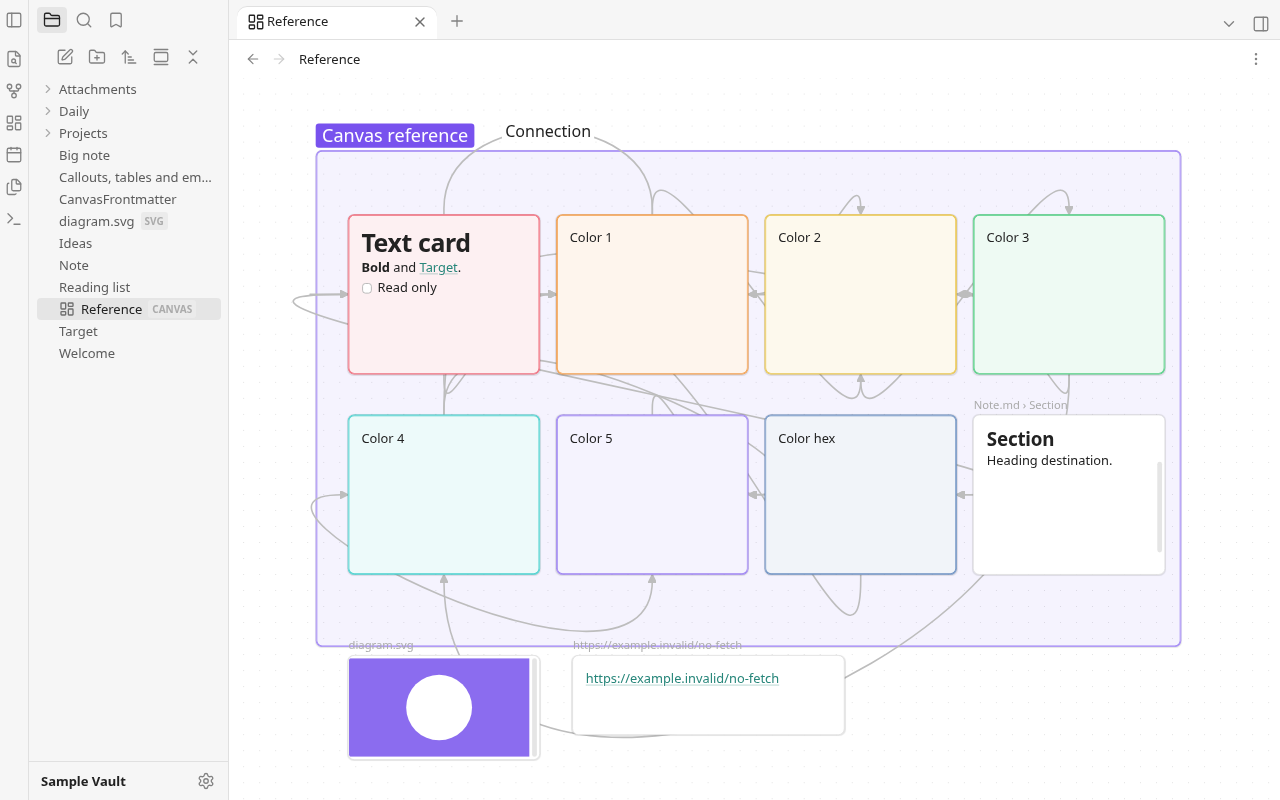
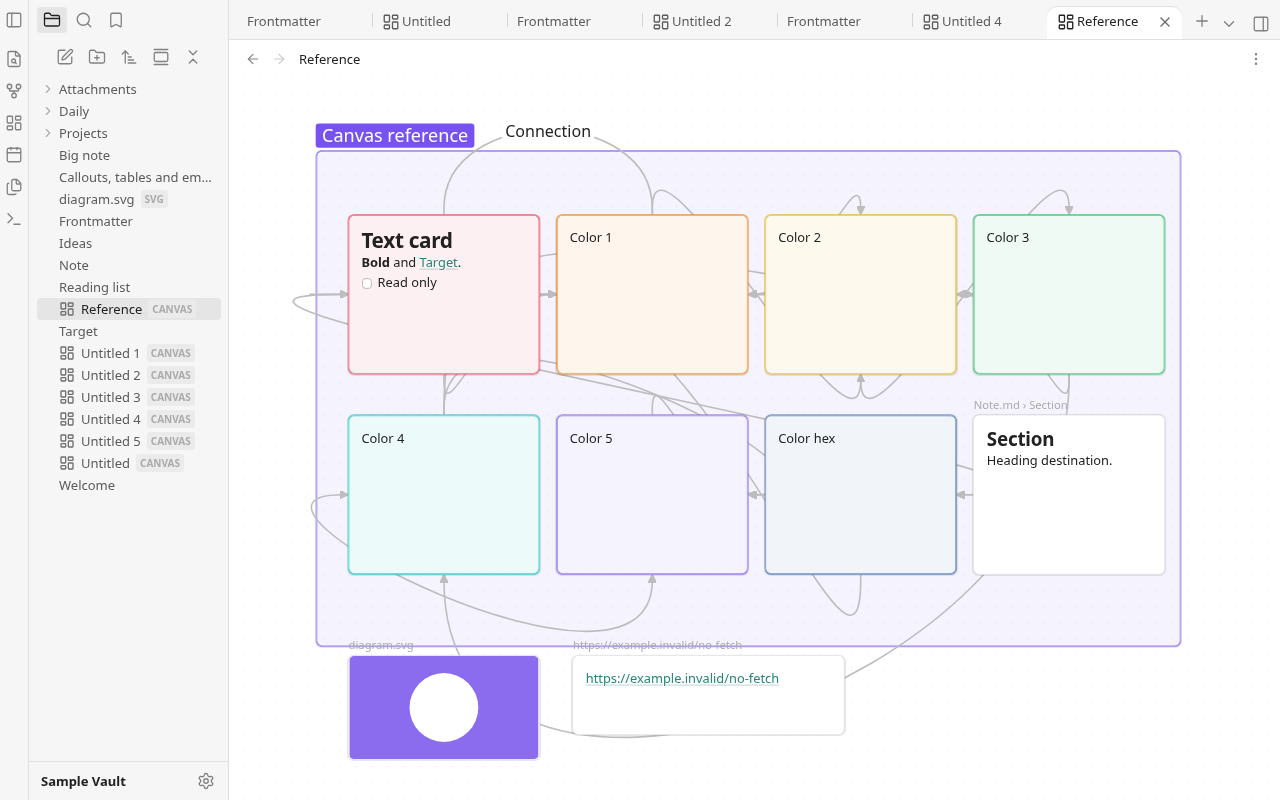
Document round 23 Part A observations, verification and line counts

diff --git a/rebuild/ROUND23_NOTES.md b/rebuild/ROUND23_NOTES.md
@@ -1,0 +1,179 @@
+# Round 23 — Part A: read-only Canvas
+
+Worktree `/home/chris/workspaces/remote/grove-r23-codex`, branch
+`rebuild/r23-codex`, baseline `95f23e5`. Local commits only; nothing pushed
+or merged. Part B is pending its separate request.
+
+## Commits
+
+- `6e32d23` — Open `.canvas` files as attachment tabs, preserving their
+  original bytes. Add a small DOM/SVG board, reuse Reading rendering and
+  local image blobs, and include canvases in the explorer, quick switcher,
+  wikilink suggestions, saved tabs and navigation. Add parser, filesystem
+  read/list and native mouse regressions.
+- `48b523b` — Chris's ribbon report, in its own commit. Match the fresh
+  Obsidian order and Lucide icons; add Create new canvas, its palette
+  command and the explorer's New canvas item after New folder. Reuse the
+  existing file creation, folder setting and numbering helpers. Serialize
+  creation so repeated stationary clicks cannot choose the same free name.
+  Keep Ctrl+N and Random note commands. Omit the Base slot until Bases exists.
+- `14956da` — Resolve attachment wikilinks without creating `.canvas.md`
+  notes; reuse the existing workspace host instead of creating subscriptions
+  per card. Add navigation, subscription cleanup and attachment-link checks.
+  Match the measured Canvas heading size and avoid image-card scrollbars.
+- `5583184` — Match the settled Obsidian empty file exactly (`{}`). The
+  initial zero-byte read preceded its autosave. Rerun build/offline audit,
+  all 34 Canvas browser checks and the Playwright pointer checks.
+- Final notes/evidence commit: this document and the final screenshots and
+  observation/test evidence (its hash is the commit containing this file).
+
+## Obsidian observation
+
+Observed installed Obsidian 1.14.4 through headless Electron/Ozone at
+1280×800. It used private HOME, XDG folders, user-data profile and a scratch
+vault under this worktree's ignored `rebuild/app/node_modules/.r23-reference`.
+The driver and Obsidian ran in `unshare -Urn`, with only loopback enabled.
+Only public workspace/command APIs, rendered DOM, computed element metrics
+and native Playwright mouse/keyboard input were used. No application code,
+stylesheets or assets were read or copied. No real vault, Tauri window or
+visible desktop window was opened.
+
+The scratch board has text cards, a frontmatter note with `#Section`, a local
+SVG, a URL, a labelled group, presets 1–6 plus a hex color, and 16 edges
+covering every source/destination side pair, both ends and a label. It was
+opened and edited with real mouse/keyboard input in Obsidian, then its saved
+JSON was used by Grove: [Reference.canvas](round23-shots/Reference.canvas),
+[Note.md](round23-shots/Note.md), [diagram.svg](round23-shots/diagram.svg).
+
+Measured/observed:
+
+- Cards: 8px corner radius, 1px border, subtle `0 .5px 1px .5px` shadow at
+  10% black; colored cards have a 70% color border/inset outline and a
+  lightly tinted body. Body is 16px/24px with 16px horizontal padding;
+  first-level heading is 25.888px/31.0656px, weight 700.
+- Groups: tinted area behind the cards; label above the top-left corner,
+  solid card color, white text, 4px radius, 4px/8px padding and
+  22.5px/22.5px type. File labels sit just above their cards.
+- Grid: 20 board-unit dot spacing. At opening scale 0.787878, the rendered
+  pattern spacing is 15.757576px and the circle radius is 0.7px. At 2×
+  spacing is 40px; at 1/16× Obsidian coarsens it to 10px. The rendered circle
+  radius remains 0.7px at all three measured scales. The captures below
+  show those zoom extremes; the navigation/grid scaling work is for Part B.
+- Edges: a 7-unit stub into a cubic Bézier and a 7-unit stub at the other
+  card. One measured top/top edge is
+  `M120 0 L120 -7 M120,-7 C120,-137 380,-137 380,-7 M380 -7 L380 0`.
+  Arrowheads are filled triangles; the observed polygon spans 13×10.4
+  board units. Labels have a small white background above the curve.
+- Right controls, top to bottom: Canvas settings; Zoom in (`plus`), Reset
+  zoom (`rotate-cw`), Zoom to fit (`maximize`, Shift+1), Zoom out (`minus`);
+  Undo, Redo; Canvas help. These controls and interactive navigation belong
+  to Part B and are not added here.
+- Measured scale endpoints: 1/16× and 2×. Ctrl+wheel zooms around the mouse;
+  wheel pans (100 wheel units moved the board 93px in this run).
+  Space+drag and middle drag each moved the board by the pointer's 40×40px
+  displacement. Shift+1 restored the initial fit. The group measured
+  850.909px wide at fit, 2160px at maximum and 67.5px at minimum, for its
+  1080-unit width. Grove has only static opening framing in Part A.
+- Fresh ribbon: Open quick switcher (`file-search`), Open graph view
+  (`git-fork`), Create new canvas (`layout-dashboard`), Open today's daily
+  note (`calendar`), Insert template (`files`), Open command palette
+  (`terminal`), Create new base (`layout-list`). There is no Random note or
+  New note button in this fresh default. Canvas hover says "Create new
+  canvas"; explorer empty-space menu is New note, New folder, New canvas,
+  New base. Grove leaves out Base as requested.
+- An early read of a just-created Obsidian canvas returned zero bytes; a cleared board
+  was also observed saved as `{}`. A follow-up read after autosave settled
+  confirmed a new canvas writes exactly `{}` (no newline). Grove matches
+  those bytes, as Part A requires observing the exact empty format. The
+  brief's explicit-array example `{"nodes":[],"edges":[]}` also opens.
+
+Comparison captures use the same saved board at 1280×800. The sidebars and
+chrome differ; these are visual references, not a pixel-identity claim:
+
+- Board: [Obsidian](round23-shots/obsidian-canvas.png),
+  [Grove](round23-shots/grove-canvas.png).
+- Ribbon tooltip: [Obsidian](round23-shots/obsidian-ribbon.png),
+  [Grove Live Preview](round23-shots/grove-ribbon-live.png),
+  [Source](round23-shots/grove-ribbon-source.png),
+  [Reading](round23-shots/grove-ribbon-reading.png).
+- Reference zoom extremes: [2×](round23-shots/obsidian-zoom-max.png),
+  [1/16×](round23-shots/obsidian-zoom-min.png).
+
+## Read-only and offline behavior
+
+Canvas data never enters a saving Markdown editor and is never serialized.
+Unknown fields, their ordering and unknown node records remain in the
+original file; only the on-screen projection skips unknown node types.
+Invalid JSON, empty files, missing fields and invalid edges render the
+usable portion or an empty board without throwing.
+
+Text and note cards use the existing Reading renderer with read-only
+contexts and disabled task changes. Note subpaths scroll to the requested
+heading. Images/SVGs use the existing local-byte/blob path and release their
+URLs; watched file changes refresh cards. Link cards show only URL text.
+They contain no fetching target, iframe, remote image or preview; only an
+explicit trusted click or Enter invokes the existing guarded system opener.
+
+No runtime dependency, backend command, capability or CSP change was needed.
+The backend already lists and reads arbitrary supported vault files; a new
+Rust test verifies a Canvas read leaves its file byte-identical. Temporary
+Playwright tooling was installed only under ignored `node_modules/.r23-tools`;
+no package manifest or lockfile dependency was added.
+
+## Verification
+
+- `npm run build`: passed, including the final empty-file format.
+- `npm test`: passed: 4 browser-discovery tests, 237 TypeScript tests in
+  42 files, 700 named browser checks (34 new Canvas checks), and the existing
+  paste cases. After the final empty-file constant changed from explicit
+  arrays to the observed `{}`, the affected 34 Canvas checks and the
+  Playwright run were repeated and passed.
+- Permanent geometry suite: passed on plain and frontmatter notes in Live
+  Preview, Source and Reading; every line within 1px of CodeMirror's top,
+  no direct-child vertical margins, and fold arrows visible after stationary
+  unfold clicks.
+- All 18 Ctrl+O, Ctrl+P and context-menu timing checks passed: visible within
+  two frames, no opening animation, longest sampled frame **17.1ms**.
+- `npm run audit:offline`: passed on the final format, checking the build,
+  133 source files, output, CSP, capabilities and dependencies.
+- `cargo build` and `cargo test`: passed; **34** Rust tests.
+- `git diff --check`: passed.
+
+[Raw reference measurements](round23-shots/obsidian-observations.txt).
+
+Permanent `scripts/test-canvas.mjs` runs in `npm test`. It checks card and
+edge display, native wikilink navigation and Back, attachment suggestions,
+canvas-to-note subscription cleanup, damaged JSON, numbered ribbon creation,
+palette and folder-context creation, all three frontmatter modes, stationary
+clicks and exact original file text including unknown fields.
+
+The supplemental headless Playwright run uses `page.mouse.move`, `down` and
+`up`; the second click sends down/up again without moving. It covers the
+Canvas ribbon tooltip and repeated creation in Live Preview, Source and
+Reading with frontmatter; it also verifies a file-card heading leads its
+scroller, all four card types, wikilink navigation and byte preservation.
+Request monitoring observed **zero remote requests**, before and after two
+URL clicks; a mock of the system-opener adapter recorded exactly two calls.
+No DOM `.click()` was used. [Playwright results](round23-shots/playwright-results.txt).
+
+No editor transaction listener or ordinary per-keystroke processing was
+added. Big-note and table editing continue to use the existing editor paths.
+Each new Canvas source file is under 200 lines; the existing pane is 674.
+
+## Net tracked app line changes
+
+Newline counts under `rebuild/app`, tracked files only, excluding `/gen/`,
+relative to `95f23e5`, as requested:
+
+- Production TypeScript: 19,630 → **19,872 (+242)**.
+- Test TypeScript: 3,090 → **3,117 (+27)**.
+- TypeScript total: 22,720 → **22,989 (+269)**.
+- CSS: 3,746 → **3,807 (+61)**.
+- Rust (including tests): 3,134 → **3,145 (+11)**.
+- mjs test/scripts: 2,120 → **2,198 (+78)**.
+- JSON: 2,229 → **2,229 (0)**.
+- TS/CSS/Rust total: 29,600 → **29,941 (+341)**.
+- Including mjs: 31,720 → **32,139 (+419)**.
+
+Documentation, fixture JSON/Markdown/SVG and PNG evidence are outside these
+app-source counts. Part A only; stop here until Part B is requested.
